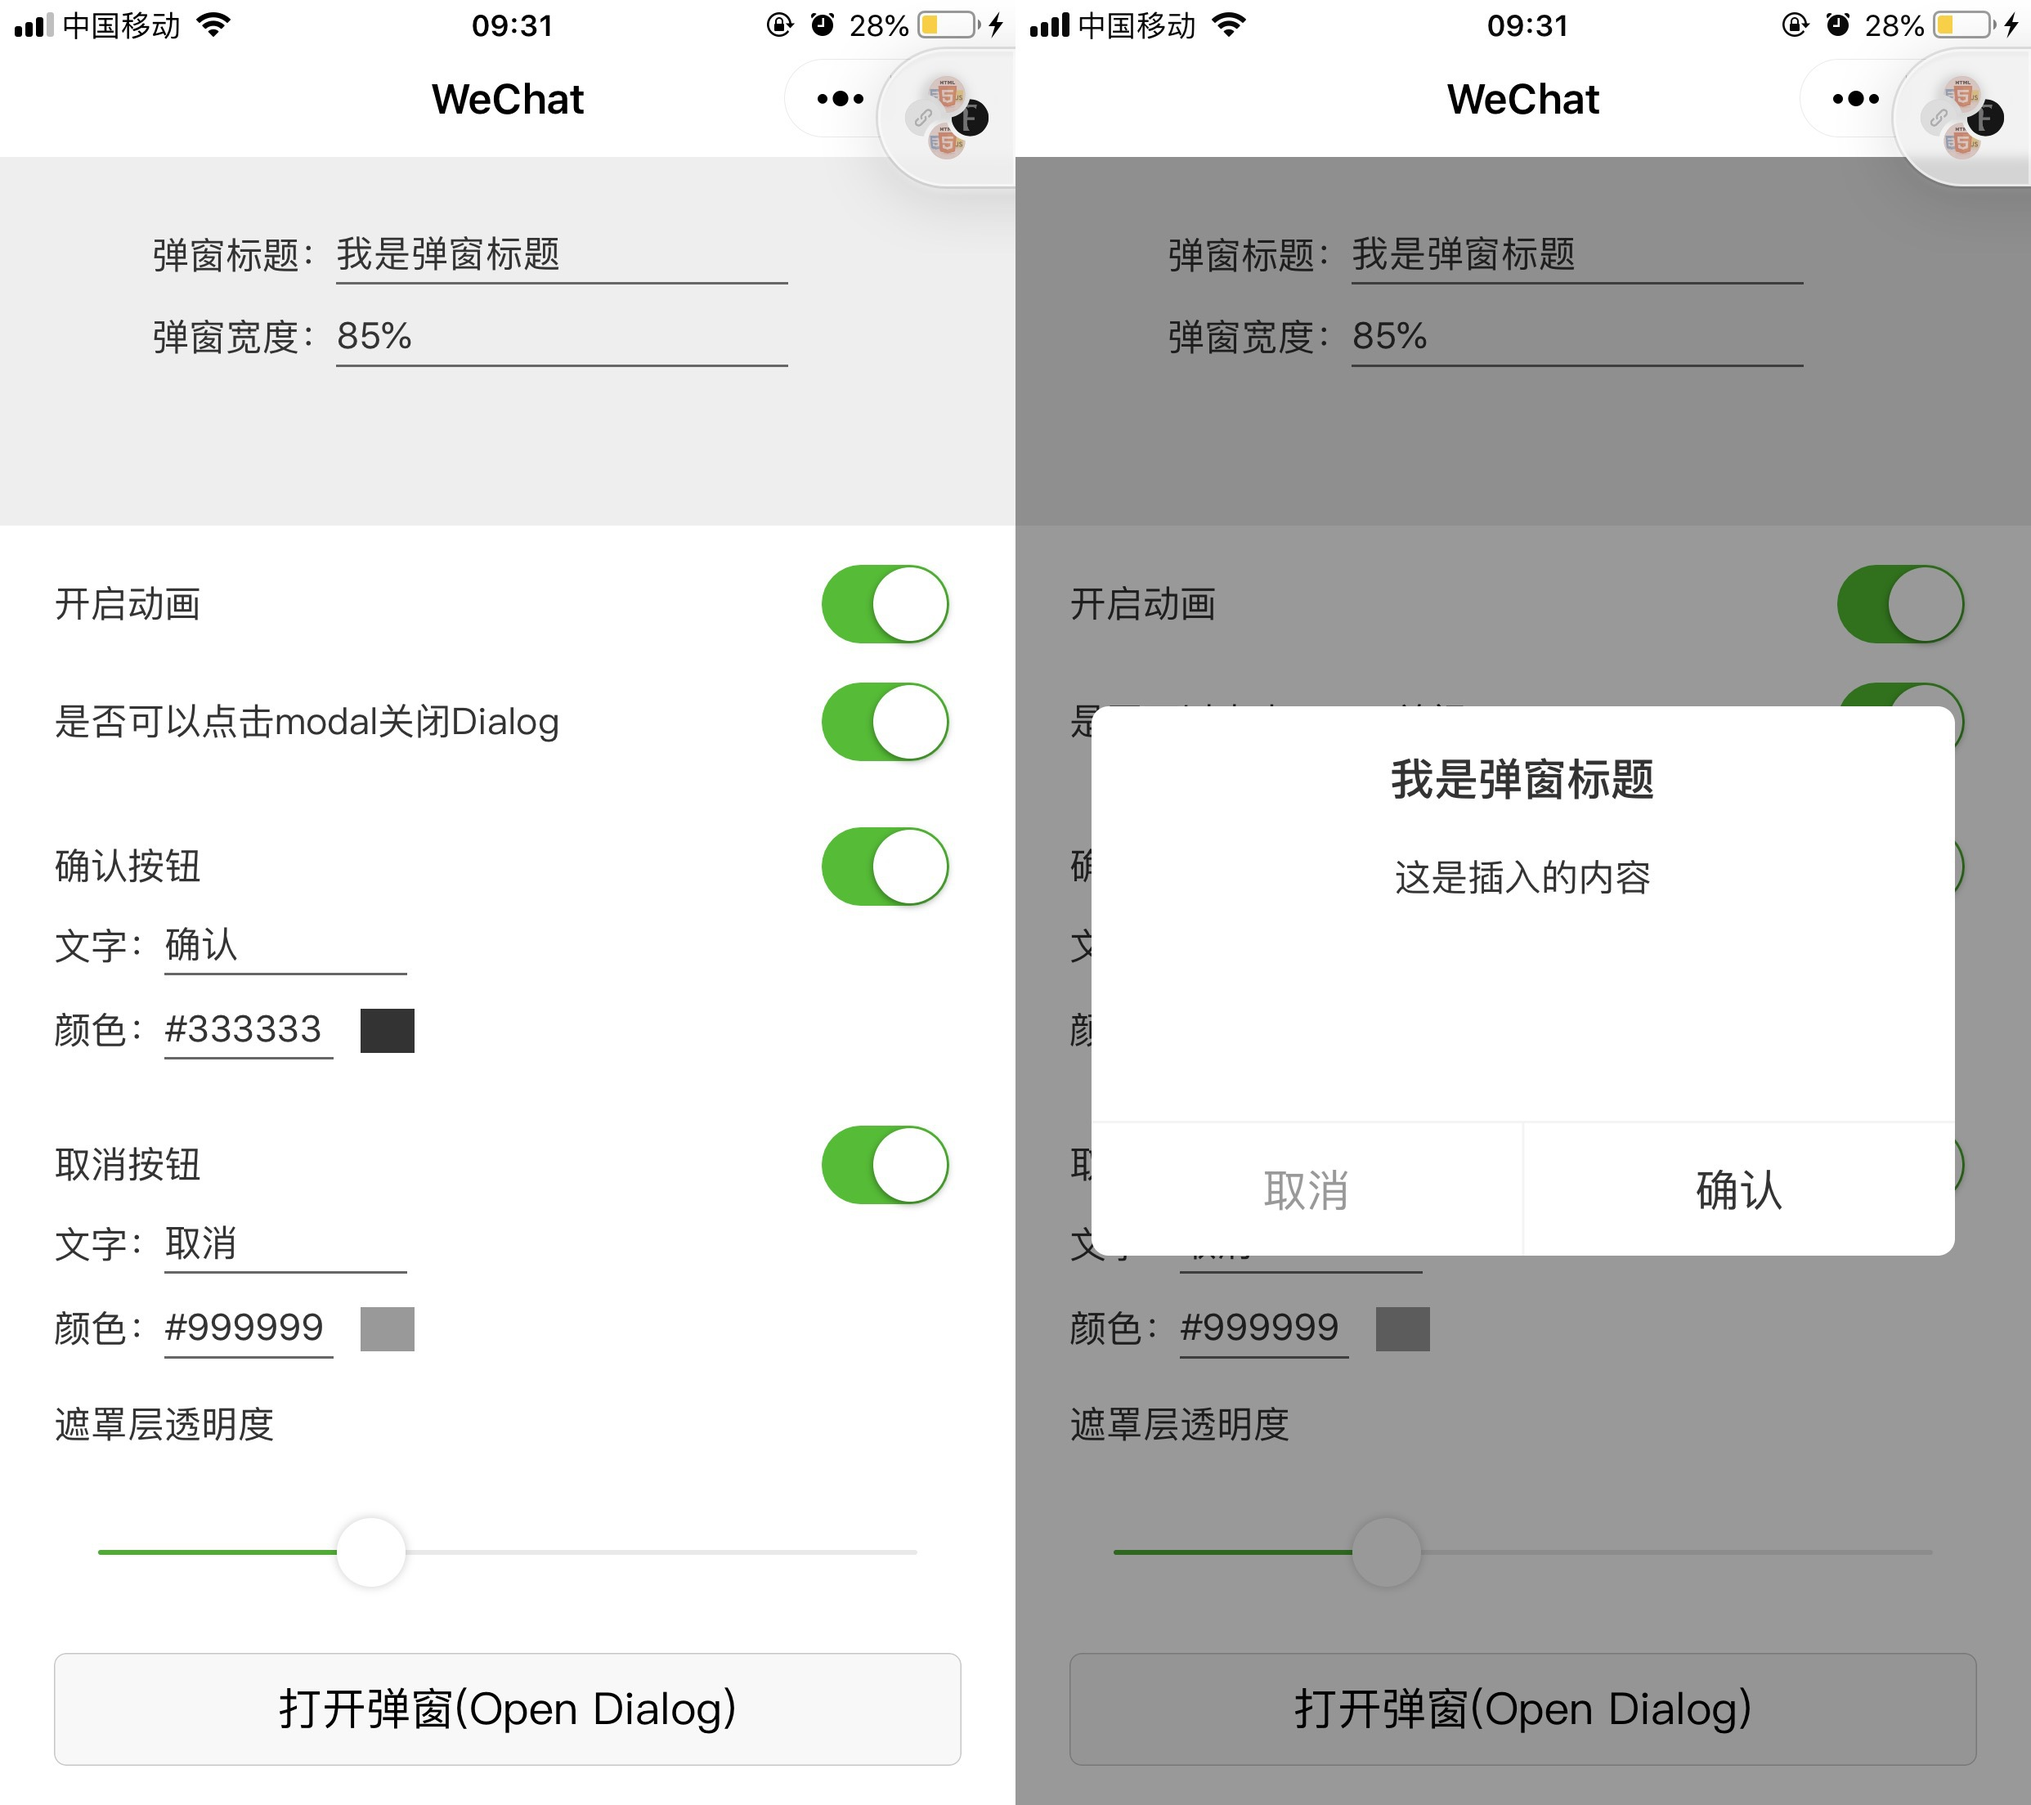
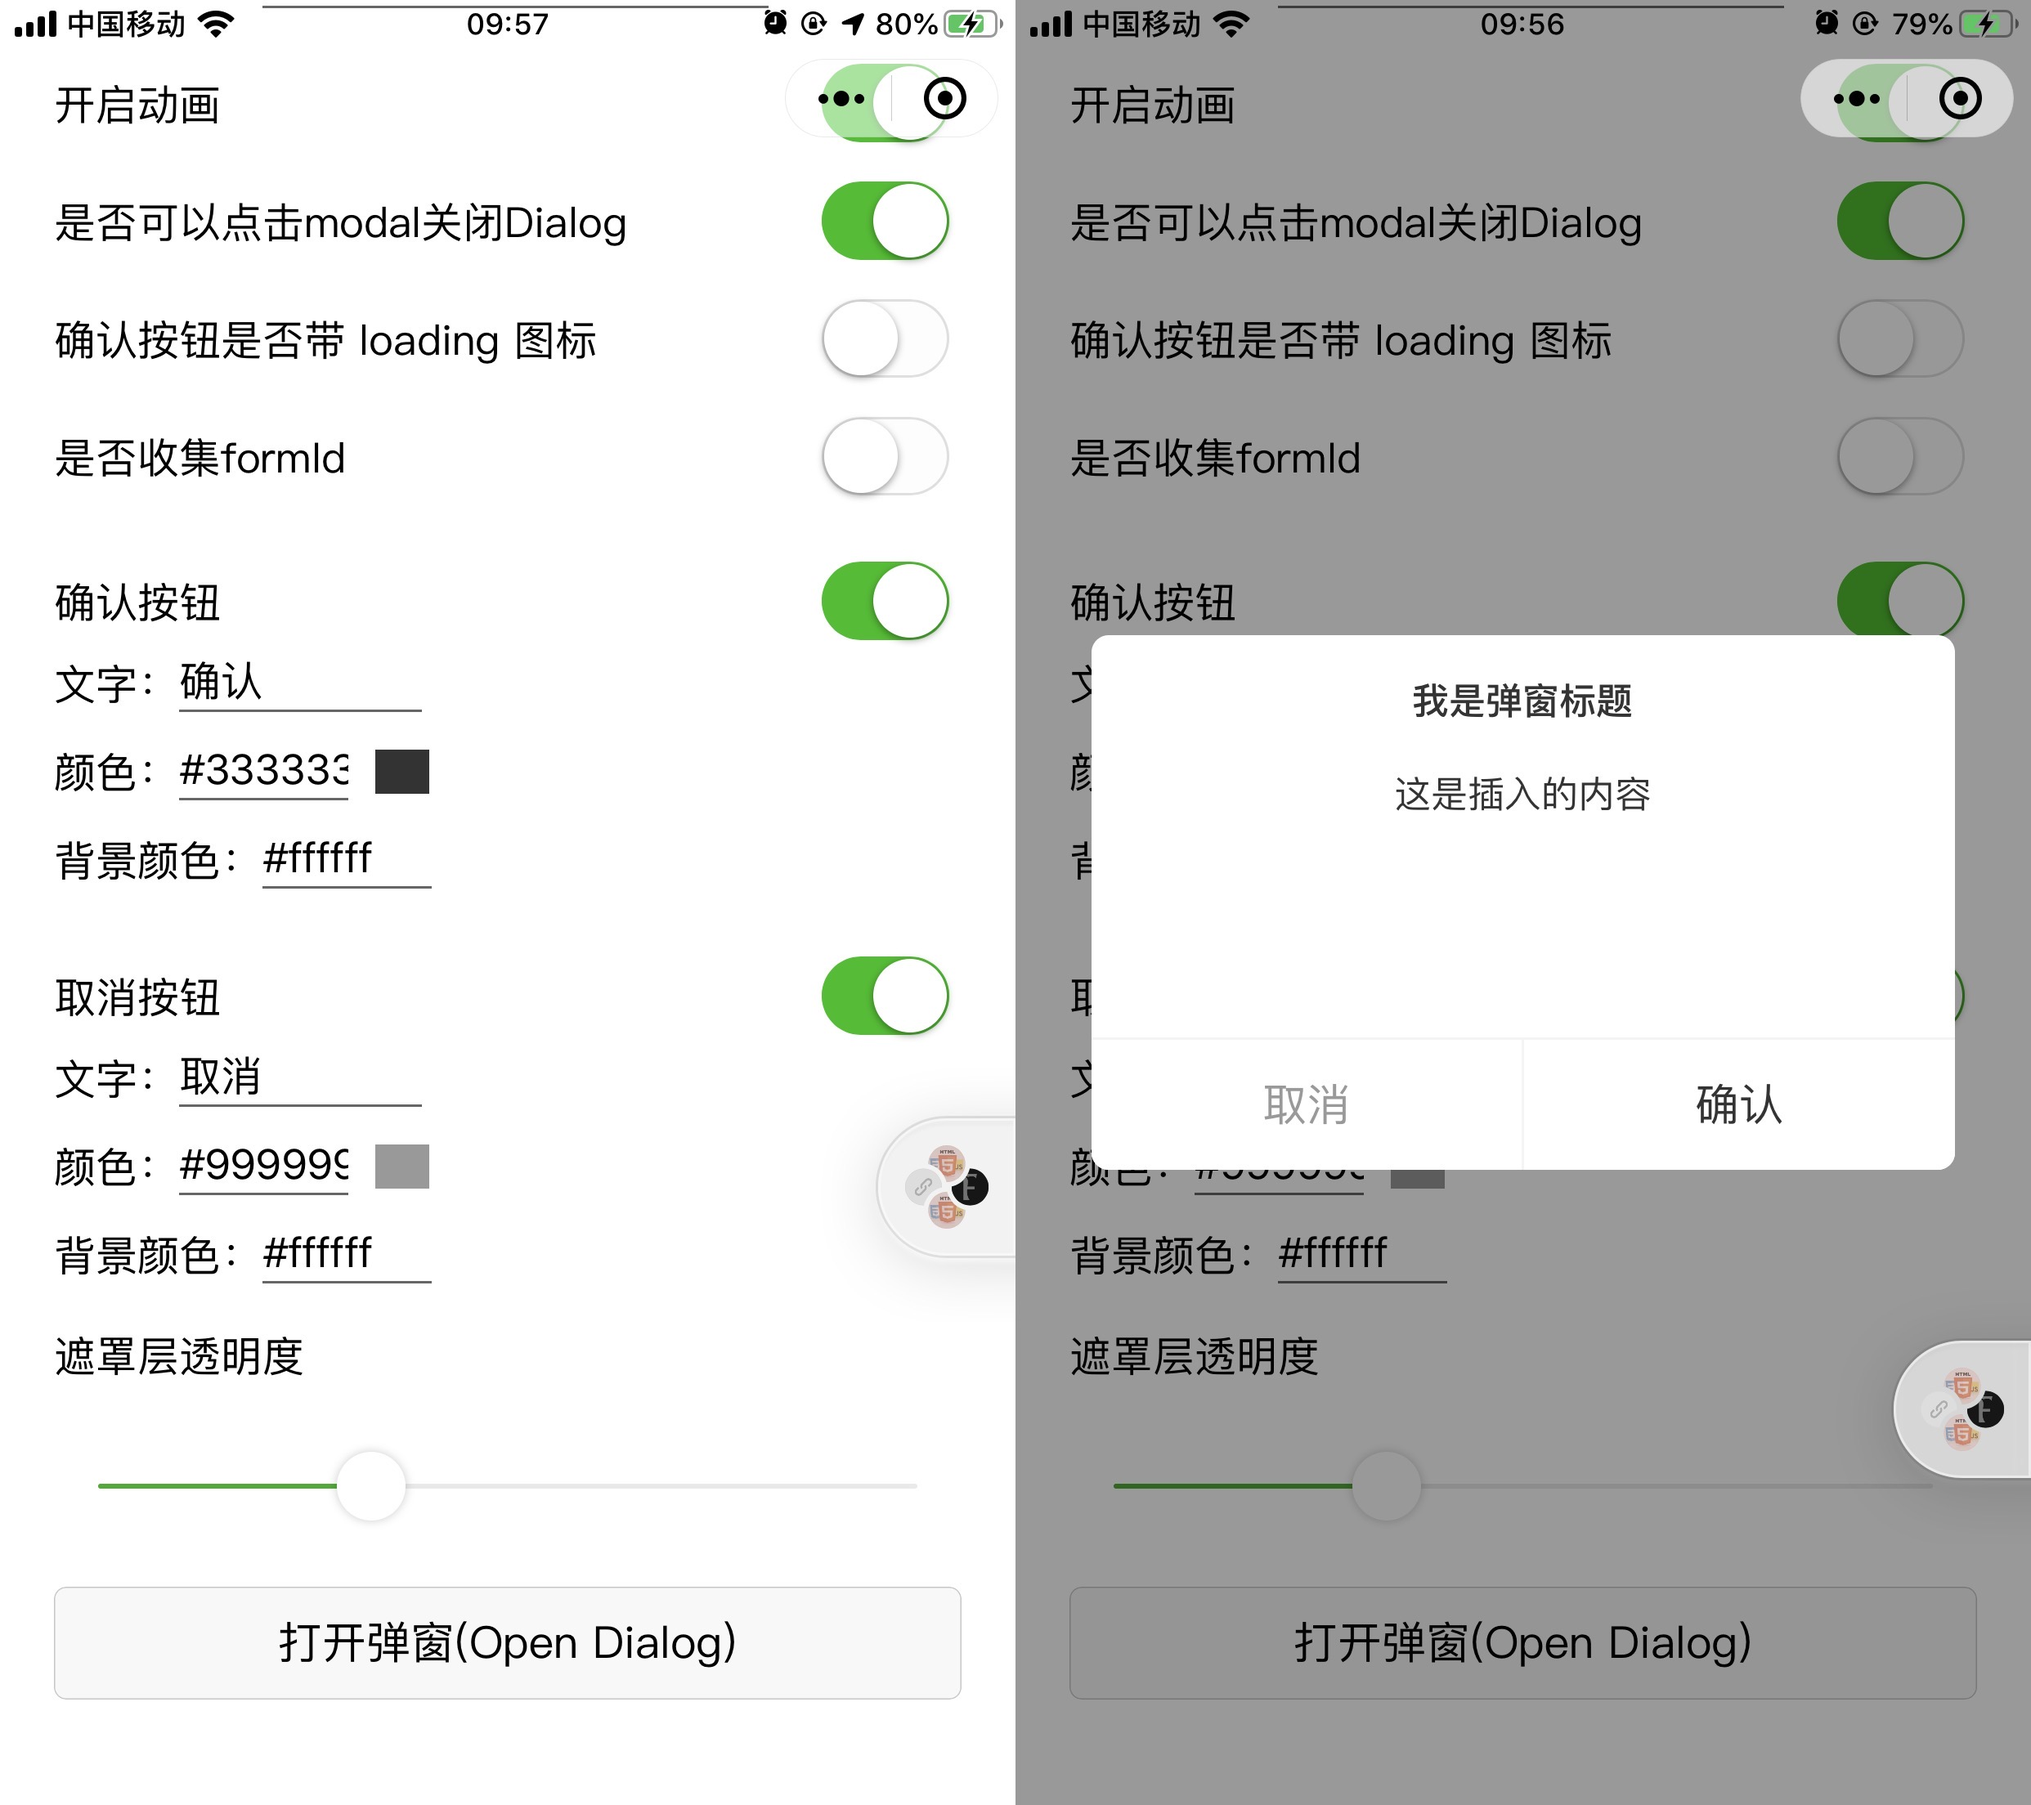
feat:新增4个特性

diff --git a/miniprogram_dev/pages/index/index.js b/miniprogram_dev/pages/index/index.js
@@ -14,17 +14,25 @@ Page({
     }, {
       text: '是否可以点击modal关闭Dialog',
       value: true
+    }, {
+      text: '确认按钮是否带 loading 图标',
+      value: false
+    }, {
+      text: '是否收集formId',
+      value: false
     }],
     buttonConf: [{
       title: '确认按钮',
       text: '确认',
       show: true,
-      color: '#333333'
+      color: '#333333',
+      background: '#ffffff'
     }, {
       title: '取消按钮',
       text: '取消',
       show: true,
-      color: '#999999'
+      color: '#999999',
+      background: '#ffffff'
     }],
     colors: [],
     opacity: '0.4'
@@ -64,6 +72,12 @@ Page({
     data['buttonConf[' + index + '].color'] = e.detail.value
     this.setData(data)
   },
+  handleInputButtonBackgroundColor: function (e) {
+    let index = e.currentTarget.dataset.index
+    let data = {}
+    data['buttonConf[' + index + '].background'] = e.detail.value
+    this.setData(data)
+  },
   showDialog: function() {
     this.setData({
       dialogvisible: true
@@ -75,19 +89,23 @@ Page({
     })
     this._toast('关闭')
   },
-  handleOpen: function() {
-    this._toast('打开')
-  },
   confirm: function() {
     this._toast('confirm')
   },
   cancel: function() {
+    this.closeDialog()
     this._toast('cancel')
+  },
+  getFormId: function(e) {
+    setTimeout(() => {
+      this._toast(`得到FormId：${e.detail.formId}`)
+    }, 2000)
   },
   _toast(msg) {
     wx.showToast({
       title: msg,
-      icon: 'none'
+      icon: 'none',
+      duration: 2000
     })
   }
 })

diff --git a/miniprogram_dev/components/index.js b/miniprogram_dev/components/index.js
@@ -97,15 +97,6 @@ module.exports =
 
 Component({
   properties: {
-    visible: {
-      type: Boolean,
-      value: false,
-      observer: function (newVal) {
-        if (newVal) {
-          this.open();
-        }
-      }
-    },
     title: {
       type: String,
       value: '提示'
@@ -149,15 +140,28 @@ Component({
     showCancel: {
       type: Boolean,
       value: true
+    },
+    confirmBackgroundColor: {
+      type: String,
+      value: '#ffffff'
+    },
+    cancelBackgroundColor: {
+      type: String,
+      value: '#ffffff'
+    },
+    loading: {
+      type: Boolean,
+      value: false
+    },
+    gatherFormId: {
+      type: Boolean,
+      value: false
     }
   },
   data: {
     position: 'center'
   },
   methods: {
-    open() {
-      this.triggerEvent('open');
-    },
     close() {
       this.triggerEvent('close');
     },
@@ -171,6 +175,15 @@ Component({
       if (this.data.closeOnClickModal) {
         this.close();
       }
+    },
+    formSubmit(e) {
+      let formid = e.detail.formId;
+      if (/requestFormId:fail/.test(formid)) {
+        return;
+      }
+      this.triggerEvent('getFormId', {
+        formId: formid
+      });
     }
   }
 });

diff --git a/miniprogram_dist/index.js b/miniprogram_dist/index.js
@@ -97,15 +97,6 @@ module.exports =
 
 Component({
   properties: {
-    visible: {
-      type: Boolean,
-      value: false,
-      observer: function (newVal) {
-        if (newVal) {
-          this.open();
-        }
-      }
-    },
     title: {
       type: String,
       value: '提示'
@@ -149,15 +140,28 @@ Component({
     showCancel: {
       type: Boolean,
       value: true
+    },
+    confirmBackgroundColor: {
+      type: String,
+      value: '#ffffff'
+    },
+    cancelBackgroundColor: {
+      type: String,
+      value: '#ffffff'
+    },
+    loading: {
+      type: Boolean,
+      value: false
+    },
+    gatherFormId: {
+      type: Boolean,
+      value: false
     }
   },
   data: {
     position: 'center'
   },
   methods: {
-    open() {
-      this.triggerEvent('open');
-    },
     close() {
       this.triggerEvent('close');
     },
@@ -171,6 +175,15 @@ Component({
       if (this.data.closeOnClickModal) {
         this.close();
       }
+    },
+    formSubmit(e) {
+      let formid = e.detail.formId;
+      if (/requestFormId:fail/.test(formid)) {
+        return;
+      }
+      this.triggerEvent('getFormId', {
+        formId: formid
+      });
     }
   }
 });

diff --git a/src/index.js b/src/index.js
@@ -6,15 +6,6 @@
 
 Component({
   properties: {
-    visible: {
-      type: Boolean,
-      value: false,
-      observer: function (newVal) {
-        if (newVal) {
-          this.open()
-        }
-      }
-    },
     title: {
       type: String,
       value: '提示'
@@ -58,15 +49,28 @@ Component({
     showCancel: {
       type: Boolean,
       value: true
+    },
+    confirmBackgroundColor: {
+      type: String,
+      value: '#ffffff'
+    },
+    cancelBackgroundColor: {
+      type: String,
+      value: '#ffffff'
+    },
+    loading: {
+      type: Boolean,
+      value: false
+    },
+    gatherFormId: {
+      type: Boolean,
+      value: false
     }
   },
   data: {
     position: 'center'
   },
   methods: {
-    open() {
-      this.triggerEvent('open')
-    },
     close() {
       this.triggerEvent('close')
     },
@@ -80,6 +84,15 @@ Component({
       if (this.data.closeOnClickModal) {
         this.close()
       }
+    },
+    formSubmit(e) {
+      let formid = e.detail.formId
+      if (/requestFormId:fail/.test(formid)) {
+        return
+      }
+      this.triggerEvent('getFormId', {
+        formId: formid
+      })
     }
   }
 })

diff --git a/README.md b/README.md
@@ -7,6 +7,9 @@
 git clone https://github.com/simsir-lin/wechat-miniprogram-dialog.git
 ```
 
+### DEMO
+1. 打开[微信web开发者工具](https://mp.weixin.qq.com/debug/wxadoc/dev/devtools/download.html)，'本地小程序项目 - 添加项目'，项目目录选择为 miniprogram_dev 目录
+
 ### 使用
 1. 安装
 ```bash
@@ -47,10 +50,14 @@ npm install --save wechat-miniprogram-dialog
 | animation    | 开启动画     | Boolean    | true       |
 | confirmText             | 确定按钮的文字                | String    | 确定          |
 | cancelText             | 取消按钮的文字                 | String    | 取消          |
-| confirmColor             | 确定按钮的文字颜色               | String    | #333333          |
-| cancelColor            | 取消按钮的文字颜色                 | String    | #999999          |
-| showConfirm    | 是否可以通过点击模态层关闭弹窗     | Boolean    | true       |
-| showCancel    | 开启动画     | Boolean    | true       |
+| confirmColor             | 确定按钮的文字颜色               | String    | #333333(支持RGBA)          |
+| cancelColor            | 取消按钮的文字颜色                 | String    | #999999(支持RGBA)          |
+| showConfirm    | 是否显示确定按钮     | Boolean    | true       |
+| showCancel    | 是否显示取消按钮     | Boolean    | true       |
+| confirmBackgroundColor    | 确定按钮背景颜色     | String    | #ffffff(支持RGBA)         |
+| cancelBackgroundColor    | 取消按钮背景颜色     | String    | #ffffff(支持RGBA)         |
+| loading    | 确认按钮是否带 loading 图标     | Boolean    | true       |
+| gatherFormId    | 是否收集formId     | Boolean    | true       |
 
 ### events
 
@@ -60,6 +67,7 @@ npm install --save wechat-miniprogram-dialog
 | close            | 当窗口关闭                 |     |
 | cancel            | 点击取消                 |     |
 | confirm            | 点击确认                 |     |
+| getFormId            | 获取到formid                 |  event.detail.formId   |
 
 ### 贡献
 如果你有好的意见或建议，欢迎给我提issue!
